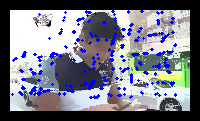
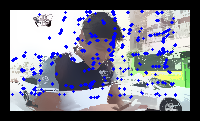
마지막 작동 확인, 코드 완료

diff --git a/비전 과제/final/combine.py b/비전 과제/final/combine.py
@@ -9,8 +9,6 @@ blue = (255,0,0)
 
 
 def euclidean_dist0(pointA, pointB):
-    if(len(pointA) != len(pointB)):
-        raise Exception("point dimensionality is not matched!")
     total = float(0)
     for dimension in range(0, len(pointA)):
         total += (pointA[dimension] - pointB[dimension])**2
@@ -19,8 +17,6 @@ def euclidean_dist0(pointA, pointB):
 
 
 def euc_d(pointA, pointB ,h):
-    if(len(pointA) != len(pointB)):
-        raise Exception("point dimensionality is not matched!")
     total = float(0)
     for dimension in range(0, len(pointA)):
         total += (pointA[dimension]/h - pointB[dimension]/h)**2
@@ -187,7 +183,7 @@ for i in range(h, originheight+h):
                 #pointcnt[ty][tx] +=1
                 i = origini
                 j = originj
-                pointtouv.append([i,j,ty,tx])
+                pointtouv.append([i,j,ty-h,tx-h])
                 repeatcnt = 0
                 dR[i][j] = tr
                 dG[i][j] = tg 
@@ -203,7 +199,7 @@ for i in range(h, originheight+h):
                 #f.write(log2)
                 pointcnt[ty-h][tx-h] +=1
                 #pointcnt[ty][tx] +=1
-                pointtouv.append([i,j,ty,tx])
+                pointtouv.append([i,j,ty-h,tx-h])
                 i = origini
                 j = originj
                 repeatcnt = 0
@@ -230,7 +226,7 @@ for i in range(h, originheight+h):
                     #pointcnt[ty][tx] +=1
                     i = origini
                     j = originj
-                    pointtouv.append([i,j,ty,tx])
+                    pointtouv.append([i,j,ty-h,tx-h])
                     repeatcnt = 0
                     dR[i][j] = tr
                     dG[i][j] = tg
@@ -244,7 +240,7 @@ for i in range(h, originheight+h):
 
 print(time.time() - time0)    # (현재 시간 - 코드 시작 시간) 출력
 
-print(ddraw)  #모든 ms들이 도달하는 좌표와 색들이 모여있는 3차원
+#print(ddraw)  #모든 ms들이 도달하는 좌표와 색들이 모여있는 3차원
 
 ##[y,x,r,g,b]
 
@@ -320,6 +316,10 @@ move = 1
 Z= np.pad(gray, pad_width=mwidth//2, mode='constant', constant_values=0)
 Z2= np.pad(gray2, pad_width=mwidth//2, mode='constant', constant_values=0)
 Zdraw= np.pad(draw, pad_width=mwidth//2, mode='constant', constant_values=0)
+# v u  저장하기 위한 배열
+varray = np.zeros((h,w), np.float32)
+uarray= np.zeros((h,w), np.float32)
+
 
 #다시 크기 정의해준다
 h,w,c = img.shape
@@ -403,23 +403,13 @@ for y in range(mwidth//2 ,h-(move-1)):     # 1~h까지 3*3이니까
             
             vu[0,0] = round(vu[0,0]) #v
             vu[1,0] = round(vu[1,0]) #u
+            varray[y -mwidth//2][x- mwidth//2]  = int(vu[0,0] )
+            uarray[y -mwidth//2][x- mwidth//2] = int(vu[1,0] )
             vulist.append([y+10, x+10, vu[0,0], vu[1,0]])#(내y좌표, 내 x좌표) , (v만큼 움직인 거리, u만큼 움직인 거리 )
             if(y % 5 == 0 and x %5 ==0):
                 #draw = cv2.line(draw, (x,y) , (x+round(vu[0,0]), y+round(vu[1,0])), black, 2)
                 draw = cv2.line(draw, (x,y) , (x+round(vu[1,0]), y+round(vu[0,0])), black, 2)
-            """
-            #print(vu)
-            if( round(vu[0,0]) !=0 or  round(vu[1,0]) != 0 ):
-                #if(round(vu[0,0]) <3 and round(vu[1,0]) <mwidth):
-                #print("그리기 시작")
-                #draw = cv2.line(draw, (x,y) , (x+round(vu[0,0]), y+round(vu[1,0])), black, 1)
-                #draw = cv2.circle(draw, (x,y), 1, black  )
-                #draw = cv2.circle(draw , ((x+(round(vu[1,0]))*5), y+(round(vu[0,0])*5)), 1, blue  )
-                #draw = cv2.arrowedLine(draw, (x,y) , (x+(round(vu[1,0])*5), y+(round(vu[0,0])*5)), black, 2)
-                #cv2.imwrite('./imim/%d.PNG'%cnt ,draw )               
-                vulist.append(vu.tolist())
-            #print(cnt)
-            """
+           
             cnt = cnt+1
            # print("1")
         
@@ -451,17 +441,22 @@ for i in range(0, len(centerlist)):
         sumu = 0
         cnt = 0
         if centerlist[i] is not None:
-            if(centerlist[i][0] == vulist[j][0] and centerlist[i][1] == vulist[j][1]):  #중심점 
+            if(centerlist[i][0] == vulist[j][0] and centerlist[i][1] == vulist[j][1]):  #텍스트에서 제일 큰애 좌표랑, vu리스트의 내 좌표랑 일치
+                print(centerlist[i])
                 for k in range(0, len(pointtouv)):
-                    if(pointtouv[k][2]== vulist[j][0]    and pointtouv[k][3]== vulist[j][1]):
-                        sumv = sumv + vulist[k][2]
-                        sumu = sumu + vulist[k][3]
+                    if(pointtouv[k][2]== vulist[j][0] and pointtouv[k][3]== vulist[j][1]):
+                        print("*", end='')
+                        sumv = sumv + varray[pointtouv[k][0]][pointtouv[k][1]]
+                        sumu = sumu + uarray[pointtouv[k][0]][pointtouv[k][1]]
                         cnt = cnt+1
+                print(sumv, sumu, cnt)
                 v = round(sumv/cnt)
                 u = round(sumu/cnt)
                 merged = cv2.line(merged, (vulist[j][1],vulist[j][0]) , ((vulist[j][1]+v), (vulist[j][0]+u)), blue, 2)
 
+#               merged = cv2.line(merged, (vulist[j][1],vulist[j][0]) , ((vulist[j][1]+round(vulist[j][2])), (vulist[j][0]+round(vulist[j][3]))), blue, 2)
 
+print(time.time() - time0)    # (현재 시간 - 코드 시작 시간) 출력
 
 
 cv2.imshow('final', merged)

diff --git a/비전 과제/final/final.py b/비전 과제/final/final.py
@@ -301,9 +301,6 @@ print("**********민시프트 완료************************")
 
 
 #읽어오자   img 
-#img = cv2.imread('test1.png', cv2.COLOR_BGR2GRAY)
-#img2 = cv2.imread('test2.png', cv2.COLOR_BGR2GRAY)
-#draw = cv2.imread('test1.png', cv2.COLOR_BGR2GRAY)
 img = cv2.imread( 'test1.png', cv2.COLOR_BGR2GRAY)
 img2 = cv2.imread('test2.png', cv2.COLOR_BGR2GRAY)
 draw = cv2.imread('test1.png', cv2.COLOR_BGR2GRAY)
